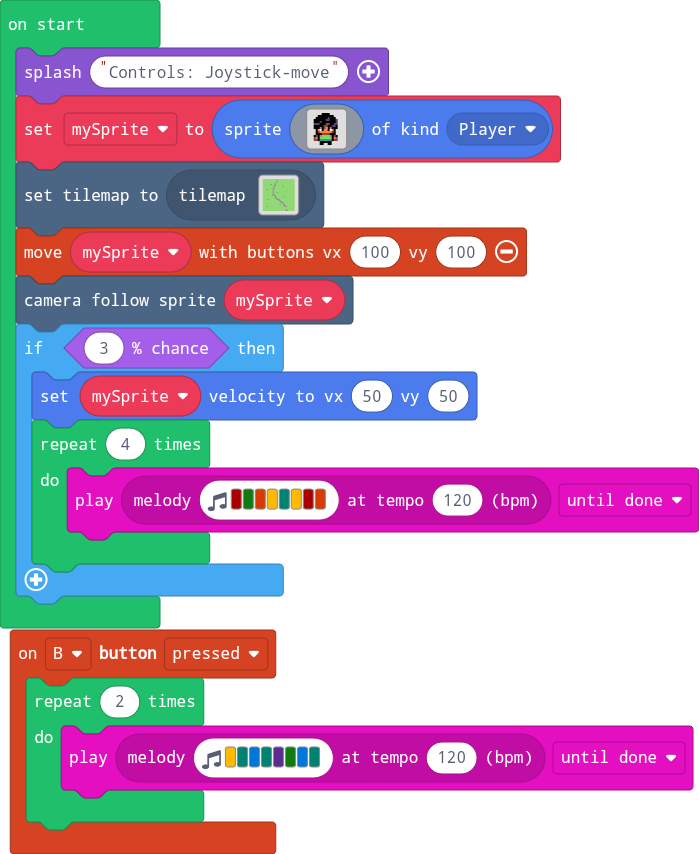
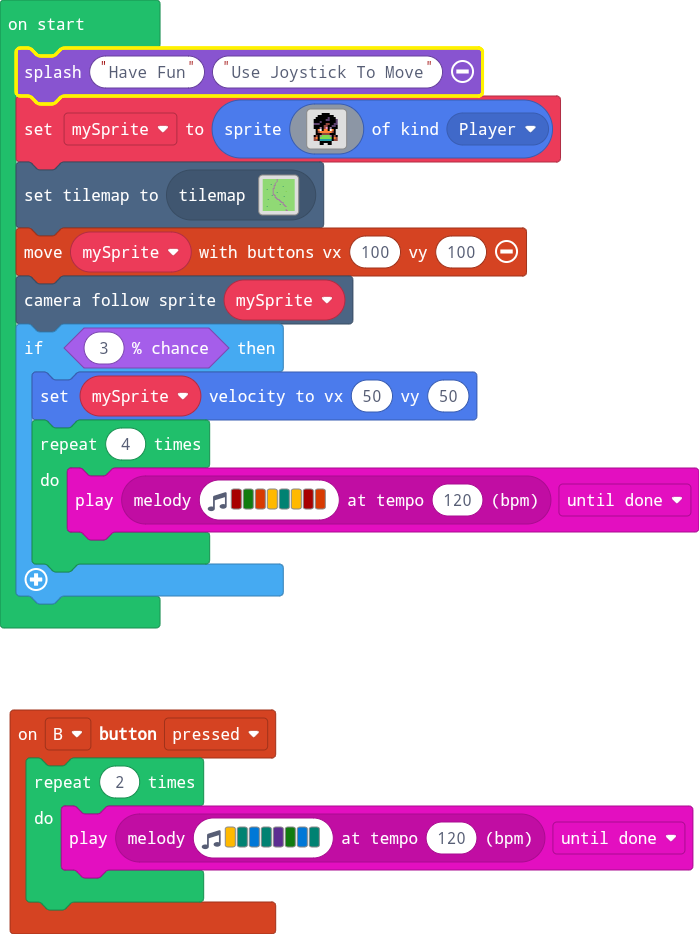
Update main.blocks, main.ts, tilemap.g.jres, tilemap.g.ts

diff --git a/tilemap.g.ts b/tilemap.g.ts
@@ -61,6 +61,44 @@ namespace myTiles {
 ................................
 ................................
 `, [myTiles.transparency16,sprites.castle.tileGrass2,sprites.builtin.forestTiles0,sprites.dungeon.floorDark2,myTiles.tile2], TileScale.Sixteen);
+            case "level3":
+            case "level3":return tiles.createTilemap(hex`1000100000000000000000000000000000000000000000000000000000000000000000000000000000000000000000000000000000000000000000000000000000000000000000000000000000000000000000000000000000000000000000000000000000000000000000000000000000000000000000000000000000000000000000000000000000000000000000000000000000000000000000000000000000000000000000000000000000000000000000000000000000000000000000000000000000000000000000000000000000000000000000000000000000000000000000000000000000000000000000000000000000000000000000000000000000000000`, img`
+. . . . . . . . . . . . . . . . 
+. . . . . . . . . . . . . . . . 
+. . . . . . . . . . . . . . . . 
+. . . . . . . . . . . . . . . . 
+. . . . . . . . . . . . . . . . 
+. . . . . . . . . . . . . . . . 
+. . . . . . . . . . . . . . . . 
+. . . . . . . . . . . . . . . . 
+. . . . . . . . . . . . . . . . 
+. . . . . . . . . . . . . . . . 
+. . . . . . . . . . . . . . . . 
+. . . . . . . . . . . . . . . . 
+. . . . . . . . . . . . . . . . 
+. . . . . . . . . . . . . . . . 
+. . . . . . . . . . . . . . . . 
+. . . . . . . . . . . . . . . . 
+`, [myTiles.transparency16], TileScale.Sixteen);
+            case "level4":
+            case "level4":return tiles.createTilemap(hex`1000100000000000000000000000000000000000000000000000000000000000000000000000000000000000000000000000000000000000000000000000000000000000000000000000000000000000000000000000000000000000000000000000000000000000000000000000000000000000000000000000000000000000000000000000000000000000000000000000000000000000000000000000000000000000000000000000000000000000000000000000000000000000000000000000000000000000000000000000000000000000000000000000000000000000000000000000000000000000000000000000000000000000000000000000000000000000`, img`
+. . . . . . . . . . . . . . . . 
+. . . . . . . . . . . . . . . . 
+. . . . . . . . . . . . . . . . 
+. . . . . . . . . . . . . . . . 
+. . . . . . . . . . . . . . . . 
+. . . . . . . . . . . . . . . . 
+. . . . . . . . . . . . . . . . 
+. . . . . . . . . . . . . . . . 
+. . . . . . . . . . . . . . . . 
+. . . . . . . . . . . . . . . . 
+. . . . . . . . . . . . . . . . 
+. . . . . . . . . . . . . . . . 
+. . . . . . . . . . . . . . . . 
+. . . . . . . . . . . . . . . . 
+. . . . . . . . . . . . . . . . 
+. . . . . . . . . . . . . . . . 
+`, [myTiles.transparency16], TileScale.Sixteen);
         }
         return null;
     })

diff --git a/main.ts b/main.ts
@@ -3,7 +3,7 @@ controller.B.onEvent(ControllerButtonEvent.Pressed, function () {
         music.play(music.stringPlayable("A F E F D G E F ", 120), music.PlaybackMode.UntilDone)
     }
 })
-game.splash("Controls: Joystick-move")
+game.splash("Have Fun", "Use Joystick To Move")
 let mySprite = sprites.create(img`
     . . . . f f f f . . . . . 
     . . f f f f f f f f . . . 
